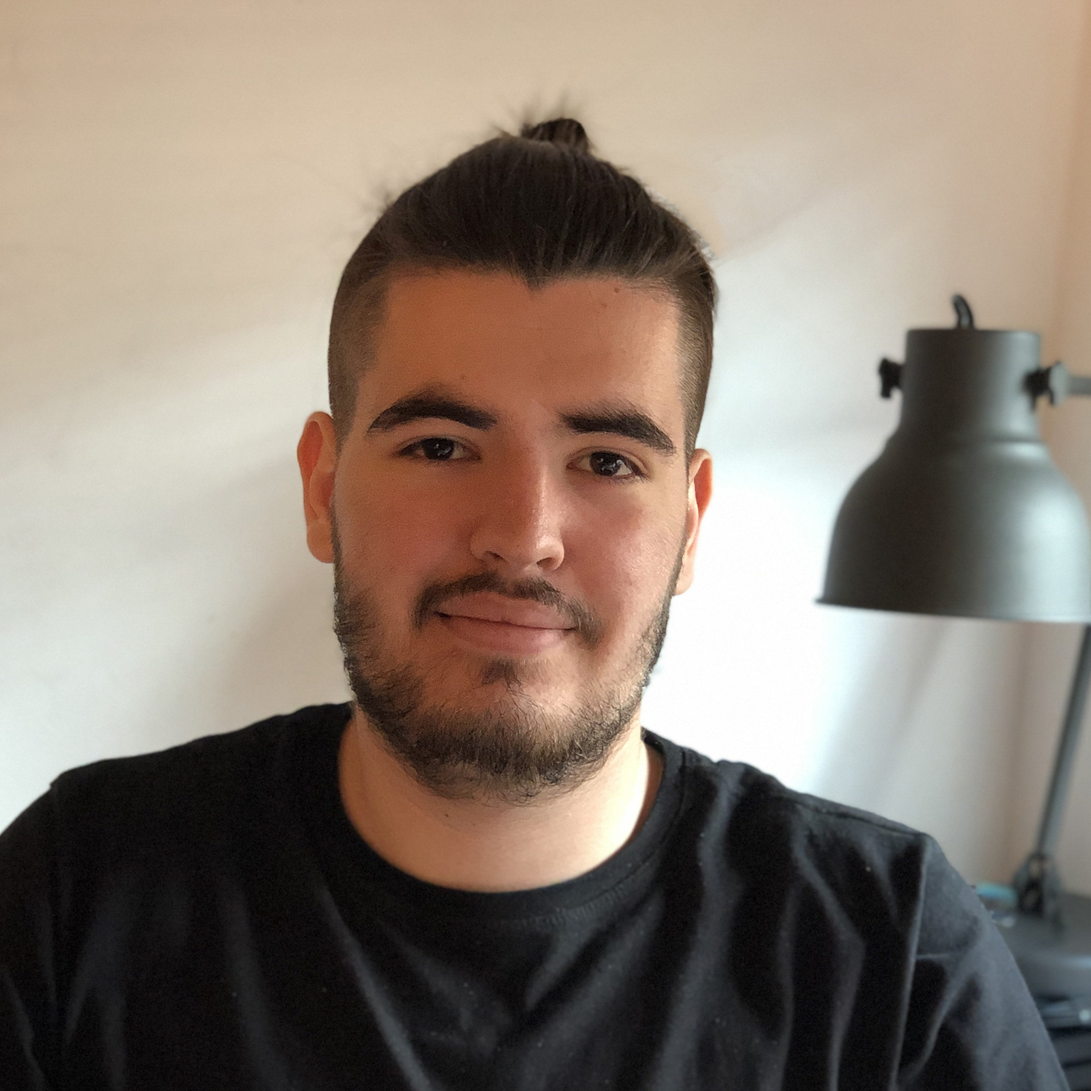
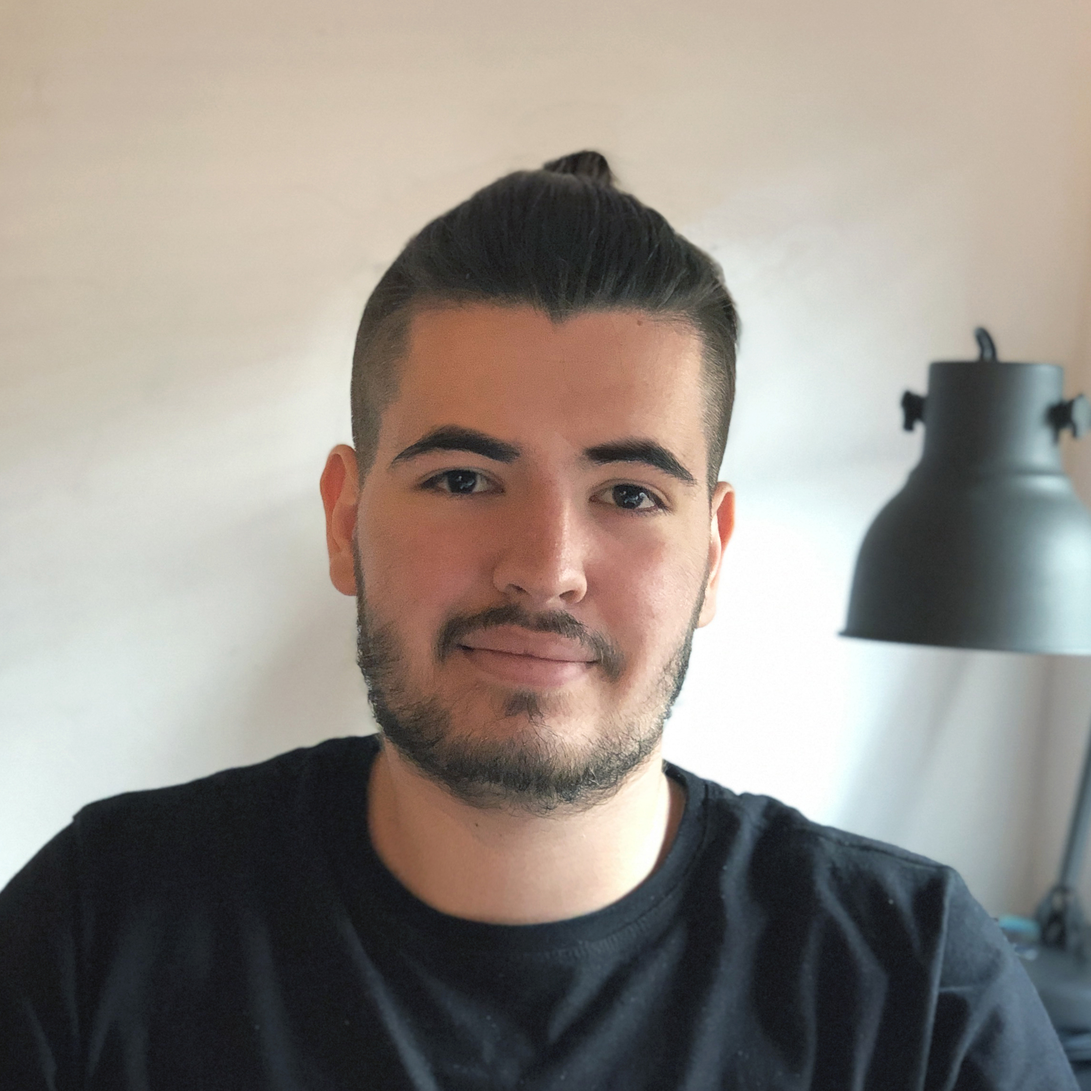
-

diff --git a/public/css/index.css b/public/css/index.css
@@ -152,7 +152,7 @@ section:nth-child(even) {
 
 #main {
     background-color: black;
-    background-image: url("../assets/imgs/wallpaper2.png");
+    background-image: url("../assets/imgs/wallpaper4.JPG");
     background-size: cover;
     background-repeat: no-repeat;
     background-position: center;

diff --git a/public/css/riddle.css b/public/css/riddle.css
@@ -40,12 +40,15 @@ section:nth-child(even) {
 }
 
 .about-img {
-    width: 300px;
+    max-width: 100%;
     position: relative;
-    left: 50%;
-    transform: translate(-50%, 0)
+    border-radius: 5px;
+    box-shadow: 10px 10px 30px 0 rgba(0, 0, 0, 0.185)
 }
 
+#about {
+    height: auto;
+}
 
 
 

diff --git a/public/css/cleanotes.css b/public/css/cleanotes.css
@@ -29,6 +29,9 @@ section:nth-child(even) {
 
 .main-img img {
     max-height: 100%;
+    /* height: 600px;
+    max-height: 70vh;
+    min-height: 400px; */
     filter: drop-shadow(10px 10px 15px rgba(0, 0, 0, 0.3));
 }
 

diff --git a/public/css/hide.css b/public/css/hide.css
@@ -17,9 +17,14 @@
     top: 30px;
 }
 
-v .hide.fade-right {
+.hide.fade-right {
     opacity: 0;
     left: -30px;
+}
+
+.hide.fade-left {
+    opacity: 0;
+    left: 30px;
 }
 
 .delay {

diff --git a/resources/views/riddle.blade.php b/resources/views/riddle.blade.php
@@ -34,10 +34,18 @@
 @endsection
 
 @section('about-img')
-    <img class="about-img m-auto hide fade-top" src="{{asset('/assets/imgs/mockupCleanotes2.png')}}" alt="">
+    <img class="about-img m-auto hide fade-top" src="{{asset('/assets/imgs/Riddle/3.jpg')}}" alt="">
 @endsection
 
 @section('about-text')
-    <p class="hide fade-left delay">Cleanotes is a note manager for android that I presented for the final project in HNC of multiplatform development. It was my first big project, and I'm so proud of it. It was also my first contact with Android Studio and Java.
-        <br><br>Previously this project also had an on-line service and a web page, but actually the server is off. <br><br>You can find the app on <a href="https://play.google.com/store/apps/details?id=com.cleanapps.cep.cleanotes2&gl=ES" target="_blank">Google Play</a>.</p>
+    <p class="hide fade-left delay">With Riddle, you will learn about the Attack on Pearl Harbor while you play amazing and challenging games.
+        <br>This website was the first project in a higher degree of web development and it was only possible thanks to the help of my two companions Toni Altamirano and Marc González.
+        <br>Riddle is composed of three games that you can play completely free!</p>
+        <br>
+        <ul class="hide fade-left delay">
+            <li><a href="">First game     (Toni).</a></li>
+            <li><a href="">Second game    (Me)</a></li>
+            <li><a href="">Third game     (Marc).</a></li>
+            <li><a href="">Final          (Toni and me).</a></li>
+        </ul>
 @endsection
